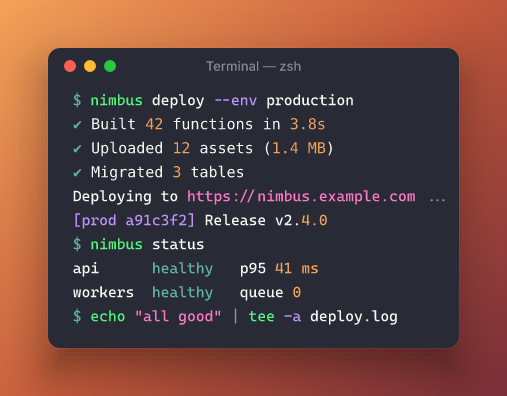
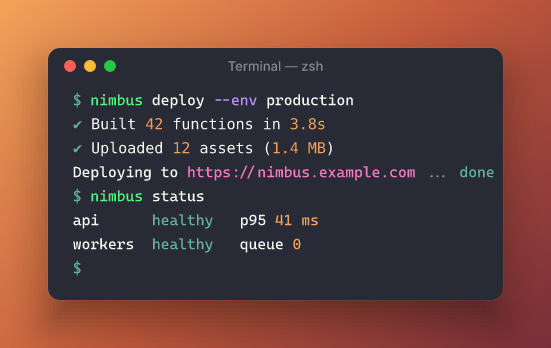
Caption band replaces the top padding; tighter showcase frames
A labeled render no longer stacks the caption band on top of the full
padding: the space above the window is the padding or the pill with some
air, whichever is larger. The showcase frames drop from 478 to 432px
with the caption right above the card. The terminal samples end on a
waiting prompt so the Kali frames show the cursor there.

Changed region(s): [[0.0888, 0.1149, 0.9172, 0.8908], [0.6213, 0.7759, 0.7988, 0.8333]]

diff --git a/internal/layout/layout.go b/internal/layout/layout.go
@@ -311,15 +311,17 @@ func Compute(in Input) (*Layout, error) {
 	// Whole pixels keep the PNG size exact at every scale (the badge bar is 50.5px).
 	cardH := math.Ceil(barH + CodePadTop + float64(len(rows))*lh + CodePadBottom)
 	pad := float64(s.Padding)
-	band := 0.0
+	// A caption takes the place of the top padding: the space above the
+	// window is whatever is larger, the padding or the pill with some air.
+	top := pad
 	if s.Label != "" {
-		band = labelBand(float64(s.LabelSize))
+		top = math.Max(pad, labelBand(float64(s.LabelSize)))
 	}
 
 	L := &Layout{
-		W: cardW + 2*pad, H: cardH + 2*pad + band,
+		W: cardW + 2*pad, H: cardH + pad + top,
 		Backdrop: in.Backdrop, ShowBackground: s.ShowBackground && !in.Backdrop.Transparent,
-		Card:   Rect{pad, pad + band, cardW, cardH},
+		Card:   Rect{pad, top, cardW, cardH},
 		Radius: float64(s.Radius), CardRadius: float64(s.CardRadius),
 		Window: window, Shadow: s.Shadow, Light: light,
 		Font: in.Code, FontSize: size, LineHeight: lh, Plain: plain, Center: milestone,
@@ -331,7 +333,7 @@ func Compute(in Input) (*Layout, error) {
 		L.Chrome = buildChrome(L.Card, barH, s.DisplayTitle(), titleFont, badge, inset, light)
 	}
 	if s.Label != "" {
-		L.Label = buildLabel(L.Card, s.Label, titleFont, float64(s.LabelSize))
+		L.Label = buildLabel(L.Card, s.Label, titleFont, float64(s.LabelSize), top)
 	}
 
 	asc, desc := in.Code.Metrics(size)
@@ -427,18 +429,18 @@ func buildKaliChrome(card Rect, title string, font *fonts.Face, badge *Badge) *C
 	return c
 }
 
-// labelBand is the extra space above the window that holds a caption of
-// the given font size.
-func labelBand(size float64) float64 { return math.Round(size * 3.4) }
+// labelBand is the space a caption of the given font size needs above the
+// window: the pill plus air above and below it.
+func labelBand(size float64) float64 { return math.Round(size*2) + 2*math.Round(size*0.75) }
 
-// buildLabel centers a caption pill in the band above the window. The
-// pill, its padding and the band all scale with the font size.
-func buildLabel(card Rect, text string, font *fonts.Face, size float64) *Label {
+// buildLabel centers a caption pill in the space above the window (top px
+// high). The pill and its padding scale with the font size.
+func buildLabel(card Rect, text string, font *fonts.Face, size, top float64) *Label {
 	padX := math.Round(size * 1.1)
 	height := math.Round(size * 2)
 	text = truncate(text, font, size, card.W-2*padX)
 	w := math.Ceil(font.Width(text, size) + 2*padX)
-	cx, cy := card.X+card.W/2, card.Y-labelBand(size)/2
+	cx, cy := card.X+card.W/2, card.Y-top/2
 	asc, desc := font.Metrics(size)
 	return &Label{
 		Box: Rect{cx - w/2, cy - height/2, w, height},

diff --git a/internal/layout/layout_test.go b/internal/layout/layout_test.go
@@ -162,8 +162,8 @@ func TestComputeBadgeWidthMilestone(t *testing.T) {
 	s.Label = "JavaScript"
 	in.Settings = s
 	L, _ = Compute(in)
-	band := labelBand(float64(s.LabelSize))
-	if L.Label == nil || L.Card.Y != 48+band || L.H != L.Card.H+96+band ||
+	top := math.Max(48, labelBand(float64(s.LabelSize)))
+	if L.Label == nil || L.Card.Y != top || L.H != L.Card.H+48+top ||
 		L.Label.Text.Text != "JavaScript" || L.Label.Box.X+L.Label.Box.W/2 != L.Card.X+L.Card.W/2 {
 		t.Errorf("label layout: card %+v label %+v", L.Card, L.Label)
 	}
@@ -174,7 +174,7 @@ func TestComputeBadgeWidthMilestone(t *testing.T) {
 	s.LabelSize = 28
 	in.Settings = s
 	L, _ = Compute(in)
-	if L.Label.Box.H <= small.H || L.Label.Box.W <= small.W || L.Card.Y <= 48+band {
+	if L.Label.Box.H <= small.H || L.Label.Box.W <= small.W || L.Card.Y <= top {
 		t.Errorf("bigger label size should grow the pill and band: %+v", L.Label.Box)
 	}
 
